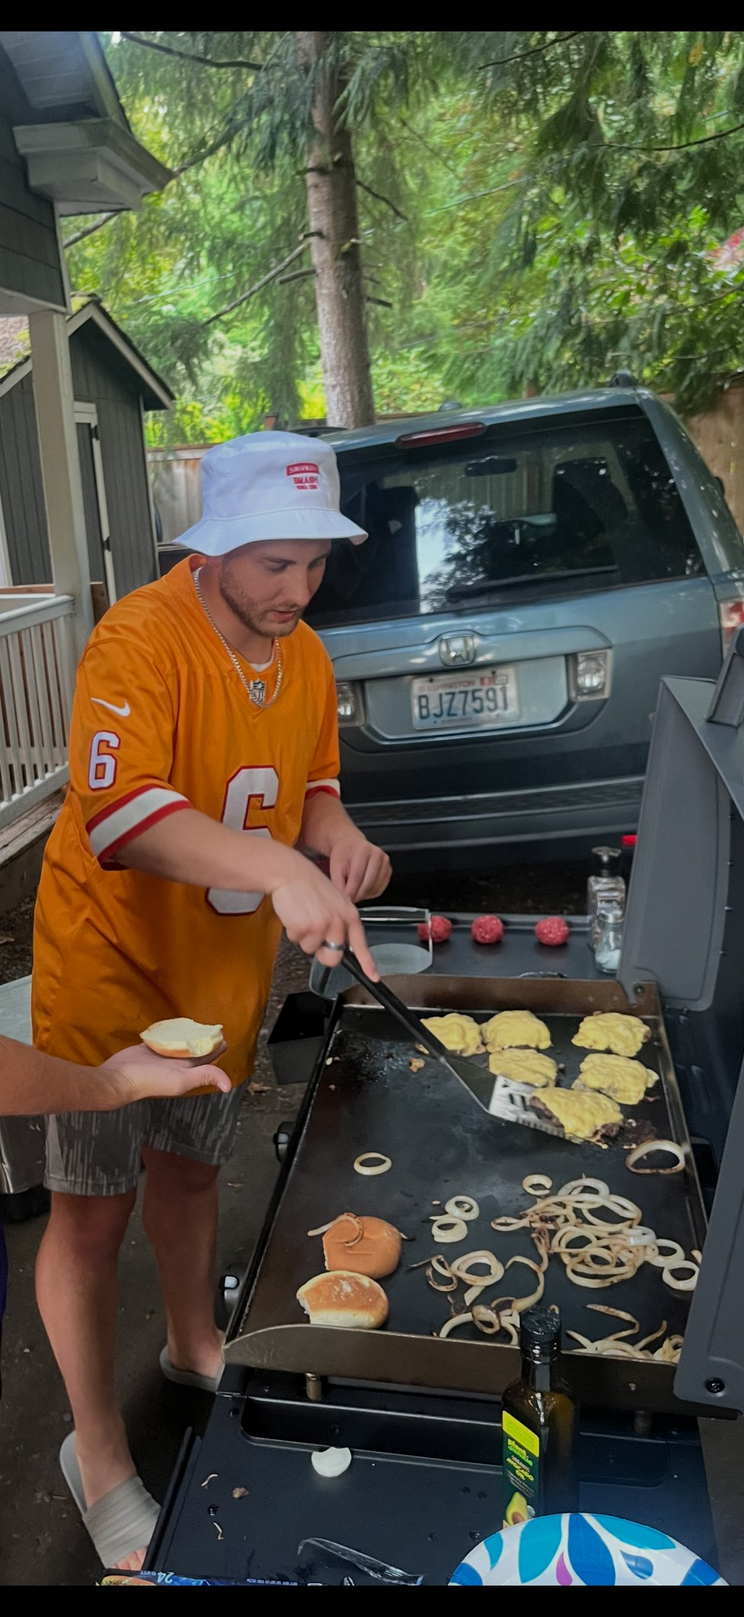
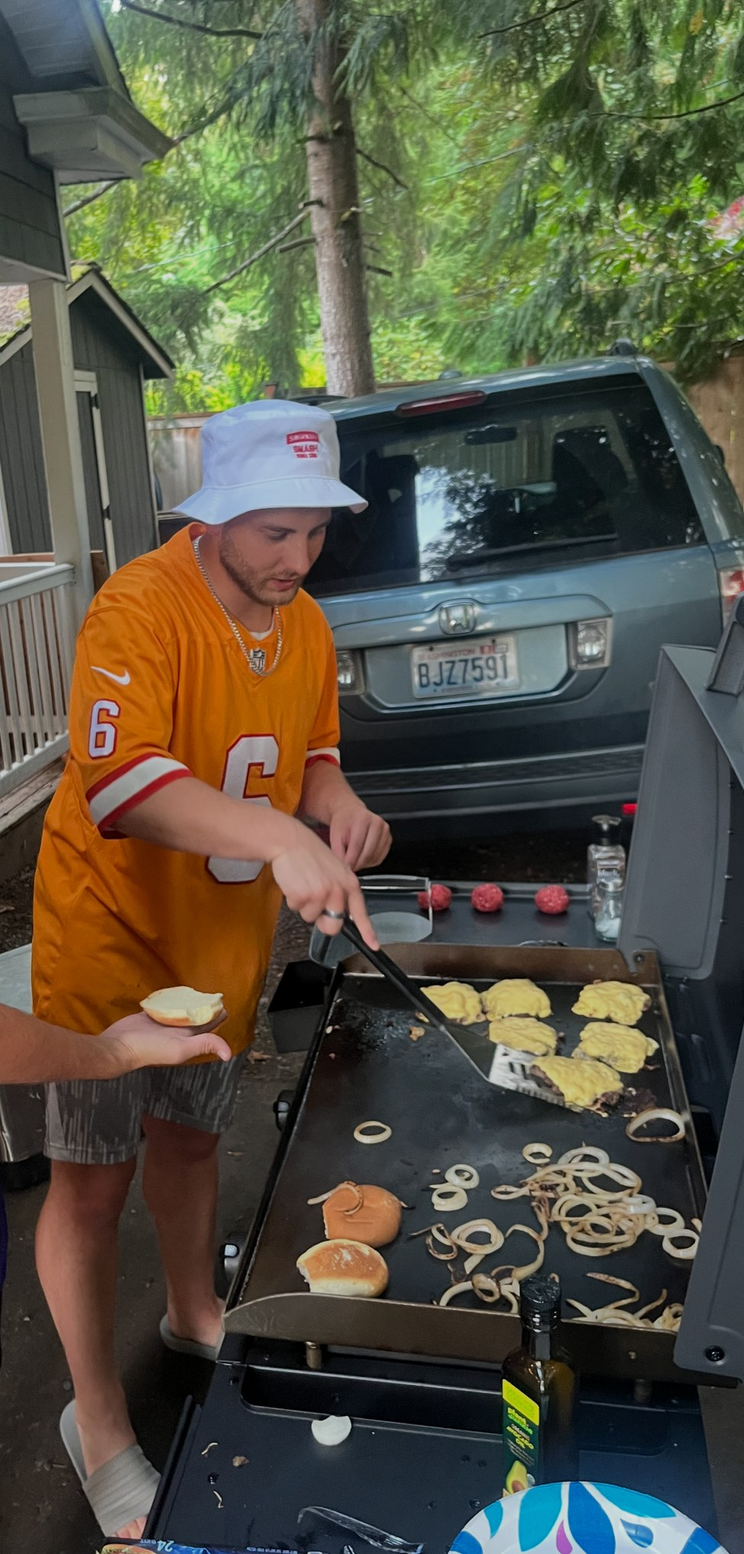
Add files via upload

diff --git a/posts/bake-or-shake-week-8/index.html b/posts/bake-or-shake-week-8/index.html
@@ -46,6 +46,6 @@
 </style></head>
 <body>
 <a class="skip-link" href="#main">Skip to content</a>
-<header class="site-bar"><div class="wrap"><a class="site-name" href="/"><img class="logo logo--bar" src="/assets/img/logo.svg?v=0adea4bd" alt="3rd &amp; Long" width="645" height="343"></a><div class="bar-right"><a class="bar-link" href="/teams">Teams</a><a class="bar-link" href="/">All reports</a><button type="button" class="pick-btn" id="pickBtn" aria-expanded="false" aria-controls="pickPanel"><span class="dot" aria-hidden="true"></span><span id="pickLabel">Pick your team</span></button></div></div><div class="pick-panel" id="pickPanel" hidden><div class="pick-grid"><div class="pick-col"><h4>AFC North</h4><button type="button" data-team="ravens"><span class="sw" style="background:#241773"></span>Baltimore Ravens</button><button type="button" data-team="bengals"><span class="sw" style="background:#FB4F14"></span>Cincinnati Bengals</button><button type="button" data-team="browns"><span class="sw" style="background:#FF3C00"></span>Cleveland Browns</button><button type="button" data-team="steelers"><span class="sw" style="background:#FFB612"></span>Pittsburgh Steelers</button></div><div class="pick-col"><h4>AFC East</h4><button type="button" data-team="bills"><span class="sw" style="background:#00338D"></span>Buffalo Bills</button><button type="button" data-team="dolphins"><span class="sw" style="background:#008E97"></span>Miami Dolphins</button><button type="button" data-team="patriots"><span class="sw" style="background:#002244"></span>New England Patriots</button><button type="button" data-team="jets"><span class="sw" style="background:#125740"></span>New York Jets</button></div><div class="pick-col"><h4>AFC South</h4><button type="button" data-team="texans"><span class="sw" style="background:#03202F"></span>Houston Texans</button><button type="button" data-team="colts"><span class="sw" style="background:#002C5F"></span>Indianapolis Colts</button><button type="button" data-team="jaguars"><span class="sw" style="background:#006778"></span>Jacksonville Jaguars</button><button type="button" data-team="titans"><span class="sw" style="background:#0C2340"></span>Tennessee Titans</button></div><div class="pick-col"><h4>AFC West</h4><button type="button" data-team="broncos"><span class="sw" style="background:#FB4F14"></span>Denver Broncos</button><button type="button" data-team="chiefs"><span class="sw" style="background:#DA1735"></span>Kansas City Chiefs</button><button type="button" data-team="raiders"><span class="sw" style="background:#A5ACAF"></span>Las Vegas Raiders</button><button type="button" data-team="chargers"><span class="sw" style="background:#0087D0"></span>Los Angeles Chargers</button></div><div class="pick-col"><h4>NFC North</h4><button type="button" data-team="bears"><span class="sw" style="background:#0B162A"></span>Chicago Bears</button><button type="button" data-team="lions"><span class="sw" style="background:#006FAC"></span>Detroit Lions</button><button type="button" data-team="packers"><span class="sw" style="background:#203731"></span>Green Bay Packers</button><button type="button" data-team="vikings"><span class="sw" style="background:#4F2683"></span>Minnesota Vikings</button></div><div class="pick-col"><h4>NFC East</h4><button type="button" data-team="cowboys"><span class="sw" style="background:#003594"></span>Dallas Cowboys</button><button type="button" data-team="giants"><span class="sw" style="background:#0B2265"></span>New York Giants</button><button type="button" data-team="eagles"><span class="sw" style="background:#004C54"></span>Philadelphia Eagles</button><button type="button" data-team="commanders"><span class="sw" style="background:#5A1414"></span>Washington Commanders</button></div><div class="pick-col"><h4>NFC South</h4><button type="button" data-team="falcons"><span class="sw" style="background:#A71930"></span>Atlanta Falcons</button><button type="button" data-team="panthers"><span class="sw" style="background:#0085CA"></span>Carolina Panthers</button><button type="button" data-team="saints"><span class="sw" style="background:#D3BC8D"></span>New Orleans Saints</button><button type="button" data-team="buccaneers"><span class="sw" style="background:#D50A0A"></span>Tampa Bay Buccaneers</button></div><div class="pick-col"><h4>NFC West</h4><button type="button" data-team="cardinals"><span class="sw" style="background:#97233F"></span>Arizona Cardinals</button><button type="button" data-team="rams"><span class="sw" style="background:#003594"></span>Los Angeles Rams</button><button type="button" data-team="49ers"><span class="sw" style="background:#AA0000"></span>San Francisco 49ers</button><button type="button" data-team="seahawks"><span class="sw" style="background:#002244"></span>Seattle Seahawks</button></div></div><div class="pick-foot"><button type="button" class="pick-reset" data-team="">Clear</button></div></div></header><div class="hero hero--post tc t-buccaneers th-buccaneers"><div class="wrap"><h1>Bake or Shake</h1><p class="hero-blurb" style="margin-top:.9rem">The Good, the Bad and the Ugly</p><p class="byline"><span>By Nate Kjormoe</span><span class="sep">/</span><span class="dim">Week 8</span></p></div></div><div class="hash"></div><main id="main"><section class="section post-body"><div class="wrap"><figure class="post-figs"><img src="/assets/img/nate-griddle.jpg" alt="Nate Kjormoe working a griddle in a creamsicle Mayfield number 6 jersey" loading="lazy"></figure><p>Sounds like a great intro, right? I thought so. Only one problem. There wasn&rsquo;t a good, there wasn&rsquo;t a bad, hell, there wasn&rsquo;t even an ugly. There really wasn&rsquo;t anything to speak of in this Week 8 performance from Baker Mayfield. Probably because my guy only threw 3 passes the whole game.</p><p>Yes, you heard me, 3 passing attempts, the whole damn game!</p><p>Now, if you don&rsquo;t follow football or watch every slate like I do, you&rsquo;d probably think this was a disastrous SHAKE by Baker, and the Bucs lost in an embarrassing fashion.</p><p>I mean, if you don&rsquo;t watch football, why the hell are you reading this? I appreciate the support regardless, but I digress.</p><p>What may surprise you is this isn&rsquo;t a SHAKE! Now, is it a BAKE? That is the question at hand. With a stat line of 0/3 completions, 0 passing yards, 0 touchdowns, 4 rushing attempts for 14 yards, and a passer rating of 39.6, this certainly couldn&rsquo;t be a BAKE&hellip; Well, if I was able to turn that molehill in my backyard into a mountain the other day, I can definitely turn this stat line into a BAKE!</p><p>Just give me a second and let me explain.</p><p>For starters, let&rsquo;s set the stage. In Tampa on Sunday, November 1st, at 1 PM, there was a little thing we in the business like to call&hellip; rain. Now, this wasn&rsquo;t your typical Florida afternoon rain shower. This was a genuinely miserable day as far as weather is concerned. Tampa experienced 30 times its normal daily rainfall with wind speeds up to 25 mph. A true biblical fucking downpour. The field was muddy, the rain was pouring, and the playing conditions were abysmal.</p><p>Two quarterbacks, same weather, and two very different outcomes. We&rsquo;ve already mentioned Baker&rsquo;s stat line, but what about the other guy? Michael Penix Jr., QB for the Atlanta Falcons, went for 8 completions on 24 attempts for a buck 25, 0 touchdowns, and 4, yes, 4 interceptions! If I cared, I&rsquo;d tell him to SHAKE it off. But this is BAKE or SHAKE, not Penix or Penis. And after judging that performance, neither one was getting up for the occasion.</p><p>Applause? No? Okay, valid&hellip; to my point.</p><p>Essentially, we had two quarterbacks and two minds. One played to the weather, the other played against it. The Bucs&rsquo; game plan was simple. Run the ball. And this was clearly the smart play as the Bucs shut out the Falcons 16-0. Todd Bowles acknowledged that the weather directly dictated the offensive strategy, forcing them to run the ball. And run the ball they did, breaking a single-game rushing record for the Tampa Bay Buccaneers. Rushing for 324 yards on 56 total carries (Baker having 4 of those! Can&rsquo;t stop this guy from contributing). Now, when the head coach makes a call to absolutely and unequivocally run the ball, can we really fault Baker for that?</p><p>No, we can&rsquo;t. But we can respect the man for putting personal stats aside and doing what&rsquo;s best for his coach and his team.</p><p>So, let&rsquo;s get back to the man of the hour. Baker did 4 things in this game that really turned this into a BAKE. Number 1, breaking records! Baker made history on this glorious Sunday, my friends. History indeed. He was the first quarterback since the 1945 Pittsburgh Steelers to lead his team to a double-digit win without completing a single pass! Along with being the first quarterback to combine for 0 completions and 300+ team rushing yards since 1933. Hot damn, how does he do it? One can only guess. Now, one point of emphasis: Baker actually did complete a pass! After a bobbled ball, Baker recovered it, threw it to Bucky for an amazing display of playmaking ability. Bucky then proceeded to fumble the ball in the back of the end zone.</p><p>Now, &ldquo;technically&rdquo; this was a backward lateral, so it didn&rsquo;t count as a pass/completion. But tomato tomato, it was still a damn good play by Baker the Playmaker Mayfield.</p><p>My second point for Baker BAKING is simple. 2/3 of Baker&rsquo;s passes were on target but unfortunately dropped by the WRs. I&rsquo;ve made the point of Baker getting poor support from his WRs before, so I won&rsquo;t go down that road again. But those drops did add to the adjustment call by Todd Bowles to just run the ball. And those drops were not due to poor accuracy by Baker in a downpour.</p><p>My third point. Baker showed true leadership in this game. In his postgame press conference, Baker discussed changing plays to shotgun and pistol formations to make the wet snaps easier to receive. He did this after that bobbled ball I mentioned earlier. This not only made it easier to handle snaps, but allowed for better clock management and clearer running lanes. Just the kind of adjustment you&rsquo;d expect from a savvy vet like Baker!</p><p>My 4th and final point, and my clear favorite, was a fucking block. Yes, you heard me. A block. From a quarterback. That is the main example of why this was an excellent performance. Not 300 yards passing or 5 TD throws. A simple football play. Because hey, Baker is a simple football guy! And on a simple football run, Baker did what few quarterbacks would even consider doing.</p><p>Late in the third quarter, Bucs running back Kenny Gainwell broke out for a deep rush into the second level. As Gainwell cut back across the open field, Baker took off. Turning from quarterback to the lead damn blocker, Mr. Mayfield met Jessie Bates III around the 10-yard line. But he didn&rsquo;t stop after contact, no sir, he continued to run those feet. Blocking Bates through the end zone and out of bounds. Sitting Jessie Bates straight on his ass into a puddle. Not only did Baker block this dude into the ground, but he got up and started scrapping with him!</p><p>Now, if you can seriously find another example of a modern quarterback putting this amount of effort in for his guys, becoming a lead blocker and blocking a starting safety into the fucking floor, I will end this BAKE or SHAKE column today. But you can&rsquo;t. Because Baker is truly one of a kind.</p><p>Now, jokes aside for a moment. I truly love watching this man play football. This is not the first time Baker has been a lead blocker, not the first time he&rsquo;s scrapped for his boys, and it will not be the last, I promise you that! Baker is a true football player, and the NFL is a better place with Baker in it.</p><p>There are plenty of doubters of Baker. I&rsquo;ve spoken to many of you since starting this column (you know who you are&hellip;) and there are many more I haven&rsquo;t spoken to, but I know are out there. Baker has been doubted since the day he stepped onto that gridiron. From a walk-on at Texas Tech, to a walk-on at Oklahoma, to winning the Heisman, being selected number one overall. Leading the Browns to their first playoff victory in 26 years. Falling from grace before leading one of the greatest 4th-quarter comebacks in NFL history for the Rams. So, you can doubt Baker all you want, but one thing you cannot deny is that no one plays harder or will put their neck on the line like Baker does. And for those of you who can watch this man play and not get a smile on your face, I truly pity you.</p><p>From the great words of Pete Weber:</p><blockquote class="post-quote"><p>&ldquo;Hate me or love me, you still watched. That&rsquo;s all you could do.&rdquo;</p><cite>Pete Weber</cite></blockquote><p>And I can&rsquo;t think of a better quote to describe Baker.</p><p>Cut it, print it, take it to the fucking bank. I don&rsquo;t care what you do.</p><p>But that&rsquo;s a fucking BAKE!</p><p><em>Ya boi, Nathanael Alan Kjormoe</em></p><p><em>Ed. Note: You heard it here first. This week against the Bears, the Buccaneers will win 27-24. Led by a 4th-quarter come-from-behind win from the comeback kid, Baker Mayfield. Also, Baker scored me 1.40 points in fantasy, and I lost by 8 points. My backup Dak Prescott had 19.80. Damn.</em></p></div></section></main><div class="wrap"><footer class="foot"><span>3rd &amp; Long</span><span>Adam Long</span></footer></div><script src="/assets/js/nav.js?v=5c00736d" defer></script>
+<header class="site-bar"><div class="wrap"><a class="site-name" href="/"><img class="logo logo--bar" src="/assets/img/logo.svg?v=0adea4bd" alt="3rd &amp; Long" width="645" height="343"></a><div class="bar-right"><a class="bar-link" href="/teams">Teams</a><a class="bar-link" href="/">All reports</a><button type="button" class="pick-btn" id="pickBtn" aria-expanded="false" aria-controls="pickPanel"><span class="dot" aria-hidden="true"></span><span id="pickLabel">Pick your team</span></button></div></div><div class="pick-panel" id="pickPanel" hidden><div class="pick-grid"><div class="pick-col"><h4>AFC North</h4><button type="button" data-team="ravens"><span class="sw" style="background:#241773"></span>Baltimore Ravens</button><button type="button" data-team="bengals"><span class="sw" style="background:#FB4F14"></span>Cincinnati Bengals</button><button type="button" data-team="browns"><span class="sw" style="background:#FF3C00"></span>Cleveland Browns</button><button type="button" data-team="steelers"><span class="sw" style="background:#FFB612"></span>Pittsburgh Steelers</button></div><div class="pick-col"><h4>AFC East</h4><button type="button" data-team="bills"><span class="sw" style="background:#00338D"></span>Buffalo Bills</button><button type="button" data-team="dolphins"><span class="sw" style="background:#008E97"></span>Miami Dolphins</button><button type="button" data-team="patriots"><span class="sw" style="background:#002244"></span>New England Patriots</button><button type="button" data-team="jets"><span class="sw" style="background:#125740"></span>New York Jets</button></div><div class="pick-col"><h4>AFC South</h4><button type="button" data-team="texans"><span class="sw" style="background:#03202F"></span>Houston Texans</button><button type="button" data-team="colts"><span class="sw" style="background:#002C5F"></span>Indianapolis Colts</button><button type="button" data-team="jaguars"><span class="sw" style="background:#006778"></span>Jacksonville Jaguars</button><button type="button" data-team="titans"><span class="sw" style="background:#0C2340"></span>Tennessee Titans</button></div><div class="pick-col"><h4>AFC West</h4><button type="button" data-team="broncos"><span class="sw" style="background:#FB4F14"></span>Denver Broncos</button><button type="button" data-team="chiefs"><span class="sw" style="background:#DA1735"></span>Kansas City Chiefs</button><button type="button" data-team="raiders"><span class="sw" style="background:#A5ACAF"></span>Las Vegas Raiders</button><button type="button" data-team="chargers"><span class="sw" style="background:#0087D0"></span>Los Angeles Chargers</button></div><div class="pick-col"><h4>NFC North</h4><button type="button" data-team="bears"><span class="sw" style="background:#0B162A"></span>Chicago Bears</button><button type="button" data-team="lions"><span class="sw" style="background:#006FAC"></span>Detroit Lions</button><button type="button" data-team="packers"><span class="sw" style="background:#203731"></span>Green Bay Packers</button><button type="button" data-team="vikings"><span class="sw" style="background:#4F2683"></span>Minnesota Vikings</button></div><div class="pick-col"><h4>NFC East</h4><button type="button" data-team="cowboys"><span class="sw" style="background:#003594"></span>Dallas Cowboys</button><button type="button" data-team="giants"><span class="sw" style="background:#0B2265"></span>New York Giants</button><button type="button" data-team="eagles"><span class="sw" style="background:#004C54"></span>Philadelphia Eagles</button><button type="button" data-team="commanders"><span class="sw" style="background:#5A1414"></span>Washington Commanders</button></div><div class="pick-col"><h4>NFC South</h4><button type="button" data-team="falcons"><span class="sw" style="background:#A71930"></span>Atlanta Falcons</button><button type="button" data-team="panthers"><span class="sw" style="background:#0085CA"></span>Carolina Panthers</button><button type="button" data-team="saints"><span class="sw" style="background:#D3BC8D"></span>New Orleans Saints</button><button type="button" data-team="buccaneers"><span class="sw" style="background:#D50A0A"></span>Tampa Bay Buccaneers</button></div><div class="pick-col"><h4>NFC West</h4><button type="button" data-team="cardinals"><span class="sw" style="background:#97233F"></span>Arizona Cardinals</button><button type="button" data-team="rams"><span class="sw" style="background:#003594"></span>Los Angeles Rams</button><button type="button" data-team="49ers"><span class="sw" style="background:#AA0000"></span>San Francisco 49ers</button><button type="button" data-team="seahawks"><span class="sw" style="background:#002244"></span>Seattle Seahawks</button></div></div><div class="pick-foot"><button type="button" class="pick-reset" data-team="">Clear</button></div></div></header><div class="hero hero--post tc t-buccaneers th-buccaneers"><div class="wrap"><h1>Bake or Shake</h1><p class="hero-blurb" style="margin-top:.9rem">The Good, the Bad and the Ugly</p><p class="byline"><span>By Nate Kjormoe</span><span class="sep">/</span><span class="dim">Week 8</span></p></div></div><div class="hash"></div><main id="main"><section class="section post-body"><div class="wrap"><figure class="post-figs"><img src="/assets/img/nate-griddle.jpg" alt="Nate Kjormoe working a griddle in a creamsicle Mayfield number 6 jersey" loading="lazy"></figure><h2 class="post-h">The Good, the Bad and the Ugly</h2><p>Sounds like a great intro, right? I thought so. Only one problem. There wasn&rsquo;t a good, there wasn&rsquo;t a bad, hell, there wasn&rsquo;t even an ugly. There really wasn&rsquo;t anything to speak of in this Week 8 performance from Baker Mayfield. Probably because my guy only threw 3 passes the whole game.</p><p>Yes, you heard me, 3 passing attempts, the whole damn game!</p><p>Now, if you don&rsquo;t follow football or watch every slate like I do, you&rsquo;d probably think this was a disastrous SHAKE by Baker, and the Bucs lost in an embarrassing fashion.</p><p>I mean, if you don&rsquo;t watch football, why the hell are you reading this? I appreciate the support regardless, but I digress.</p><p>What may surprise you is this isn&rsquo;t a SHAKE! Now, is it a BAKE? That is the question at hand. With a stat line of 0/3 completions, 0 passing yards, 0 touchdowns, 4 rushing attempts for 14 yards, and a passer rating of 39.6, this certainly couldn&rsquo;t be a BAKE&hellip; Well, if I was able to turn that molehill in my backyard into a mountain the other day, I can definitely turn this stat line into a BAKE!</p><p>Just give me a second and let me explain.</p><p>For starters, let&rsquo;s set the stage. In Tampa on Sunday, November 1st, at 1 PM, there was a little thing we in the business like to call&hellip; rain. Now, this wasn&rsquo;t your typical Florida afternoon rain shower. This was a genuinely miserable day as far as weather is concerned. Tampa experienced 30 times its normal daily rainfall with wind speeds up to 25 mph. A true biblical fucking downpour. The field was muddy, the rain was pouring, and the playing conditions were abysmal.</p><p>Two quarterbacks, same weather, and two very different outcomes. We&rsquo;ve already mentioned Baker&rsquo;s stat line, but what about the other guy? Michael Penix Jr., QB for the Atlanta Falcons, went for 8 completions on 24 attempts for a buck 25, 0 touchdowns, and 4, yes, 4 interceptions! If I cared, I&rsquo;d tell him to SHAKE it off. But this is BAKE or SHAKE, not Penix or Penis. And after judging that performance, neither one was getting up for the occasion.</p><p>Applause? No? Okay, valid&hellip; to my point.</p><p>Essentially, we had two quarterbacks and two minds. One played to the weather, the other played against it. The Bucs&rsquo; game plan was simple. Run the ball. And this was clearly the smart play as the Bucs shut out the Falcons 16-0. Todd Bowles acknowledged that the weather directly dictated the offensive strategy, forcing them to run the ball. And run the ball they did, breaking a single-game rushing record for the Tampa Bay Buccaneers. Rushing for 324 yards on 56 total carries (Baker having 4 of those! Can&rsquo;t stop this guy from contributing). Now, when the head coach makes a call to absolutely and unequivocally run the ball, can we really fault Baker for that?</p><p>No, we can&rsquo;t. But we can respect the man for putting personal stats aside and doing what&rsquo;s best for his coach and his team.</p><p>So, let&rsquo;s get back to the man of the hour. Baker did 4 things in this game that really turned this into a BAKE. Number 1, breaking records! Baker made history on this glorious Sunday, my friends. History indeed. He was the first quarterback since the 1945 Pittsburgh Steelers to lead his team to a double-digit win without completing a single pass! Along with being the first quarterback to combine for 0 completions and 300+ team rushing yards since 1933. Hot damn, how does he do it? One can only guess. Now, one point of emphasis: Baker actually did complete a pass! After a bobbled ball, Baker recovered it, threw it to Bucky for an amazing display of playmaking ability. Bucky then proceeded to fumble the ball in the back of the end zone.</p><p>Now, &ldquo;technically&rdquo; this was a backward lateral, so it didn&rsquo;t count as a pass/completion. But tomato tomato, it was still a damn good play by Baker the Playmaker Mayfield.</p><p>My second point for Baker BAKING is simple. 2/3 of Baker&rsquo;s passes were on target but unfortunately dropped by the WRs. I&rsquo;ve made the point of Baker getting poor support from his WRs before, so I won&rsquo;t go down that road again. But those drops did add to the adjustment call by Todd Bowles to just run the ball. And those drops were not due to poor accuracy by Baker in a downpour.</p><p>My third point. Baker showed true leadership in this game. In his postgame press conference, Baker discussed changing plays to shotgun and pistol formations to make the wet snaps easier to receive. He did this after that bobbled ball I mentioned earlier. This not only made it easier to handle snaps, but allowed for better clock management and clearer running lanes. Just the kind of adjustment you&rsquo;d expect from a savvy vet like Baker!</p><p>My 4th and final point, and my clear favorite, was a fucking block. Yes, you heard me. A block. From a quarterback. That is the main example of why this was an excellent performance. Not 300 yards passing or 5 TD throws. A simple football play. Because hey, Baker is a simple football guy! And on a simple football run, Baker did what few quarterbacks would even consider doing.</p><p>Late in the third quarter, Bucs running back Kenny Gainwell broke out for a deep rush into the second level. As Gainwell cut back across the open field, Baker took off. Turning from quarterback to the lead damn blocker, Mr. Mayfield met Jessie Bates III around the 10-yard line. But he didn&rsquo;t stop after contact, no sir, he continued to run those feet. Blocking Bates through the end zone and out of bounds. Sitting Jessie Bates straight on his ass into a puddle. Not only did Baker block this dude into the ground, but he got up and started scrapping with him!</p><p>Now, if you can seriously find another example of a modern quarterback putting this amount of effort in for his guys, becoming a lead blocker and blocking a starting safety into the fucking floor, I will end this BAKE or SHAKE column today. But you can&rsquo;t. Because Baker is truly one of a kind.</p><p>Now, jokes aside for a moment. I truly love watching this man play football. This is not the first time Baker has been a lead blocker, not the first time he&rsquo;s scrapped for his boys, and it will not be the last, I promise you that! Baker is a true football player, and the NFL is a better place with Baker in it.</p><p>There are plenty of doubters of Baker. I&rsquo;ve spoken to many of you since starting this column (you know who you are&hellip;) and there are many more I haven&rsquo;t spoken to, but I know are out there. Baker has been doubted since the day he stepped onto that gridiron. From a walk-on at Texas Tech, to a walk-on at Oklahoma, to winning the Heisman, being selected number one overall. Leading the Browns to their first playoff victory in 26 years. Falling from grace before leading one of the greatest 4th-quarter comebacks in NFL history for the Rams. So, you can doubt Baker all you want, but one thing you cannot deny is that no one plays harder or will put their neck on the line like Baker does. And for those of you who can watch this man play and not get a smile on your face, I truly pity you.</p><p>From the great words of Pete Weber:</p><blockquote class="post-quote"><p>&ldquo;Hate me or love me, you still watched. That&rsquo;s all you could do.&rdquo;</p><cite>Pete Weber</cite></blockquote><p>And I can&rsquo;t think of a better quote to describe Baker.</p><p>Cut it, print it, take it to the fucking bank. I don&rsquo;t care what you do.</p><p>But that&rsquo;s a fucking BAKE!</p><p><em>Ya boi, Nathanael Alan Kjormoe</em></p><p><em>Ed. Note: You heard it here first. This week against the Bears, the Buccaneers will win 27-24. Led by a 4th-quarter come-from-behind win from the comeback kid, Baker Mayfield. Also, Baker scored me 1.40 points in fantasy, and I lost by 8 points. My backup Dak Prescott had 19.80. Damn.</em></p></div></section></main><div class="wrap"><footer class="foot"><span>3rd &amp; Long</span><span>Adam Long</span></footer></div><script src="/assets/js/nav.js?v=5c00736d" defer></script>
 </body>
 </html>
